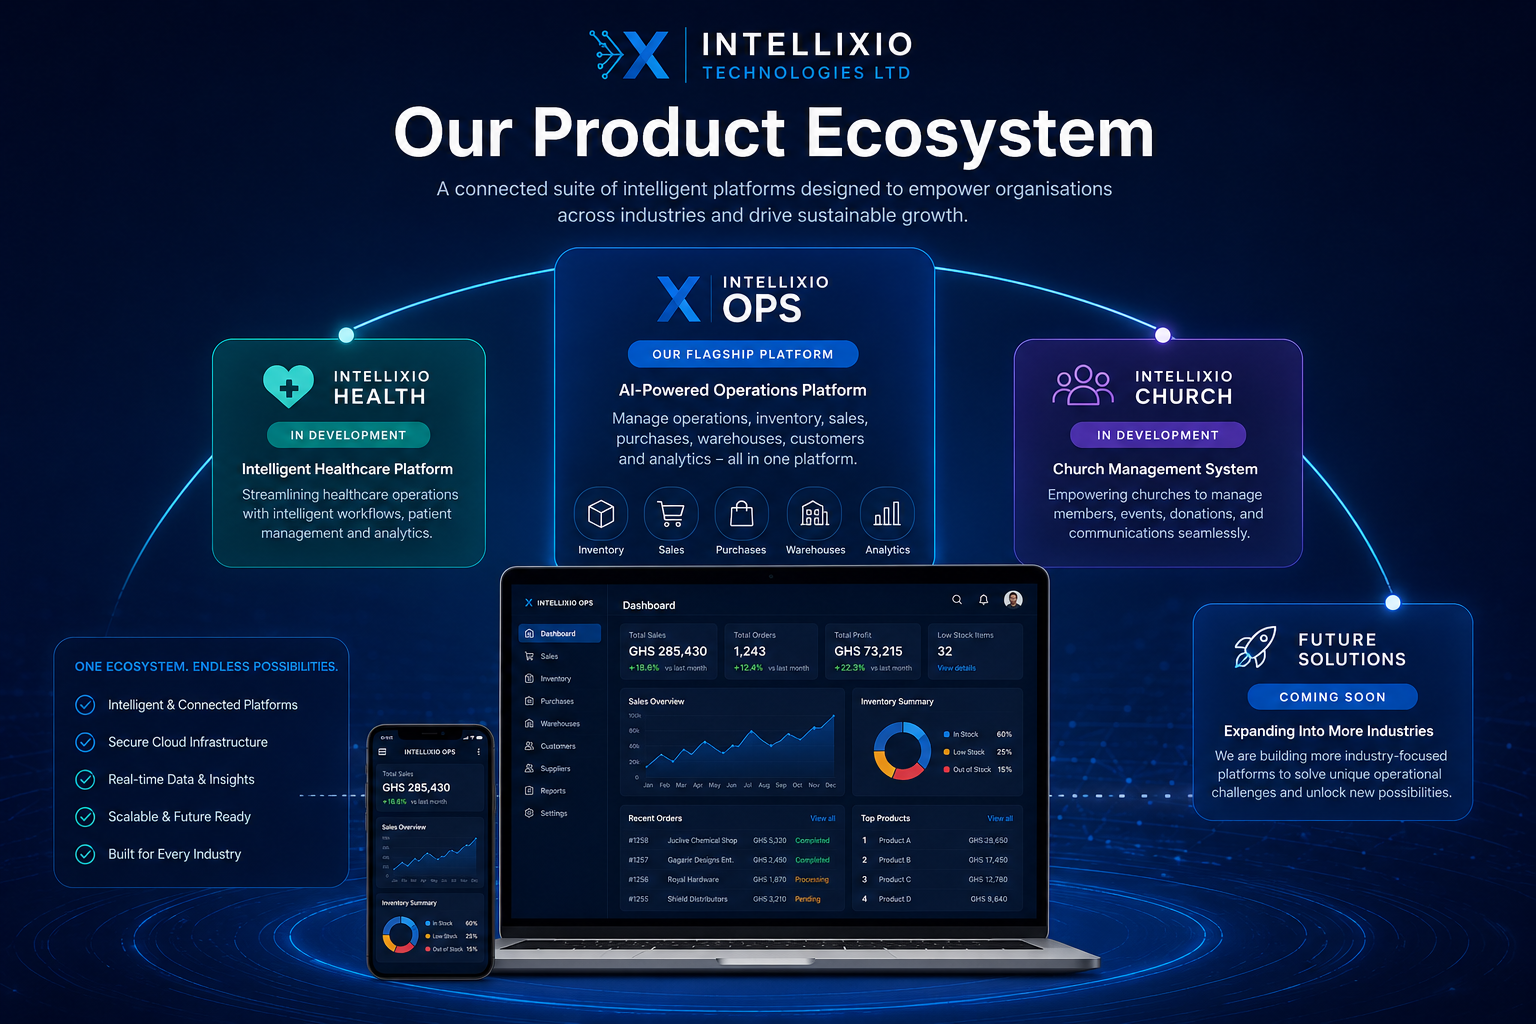
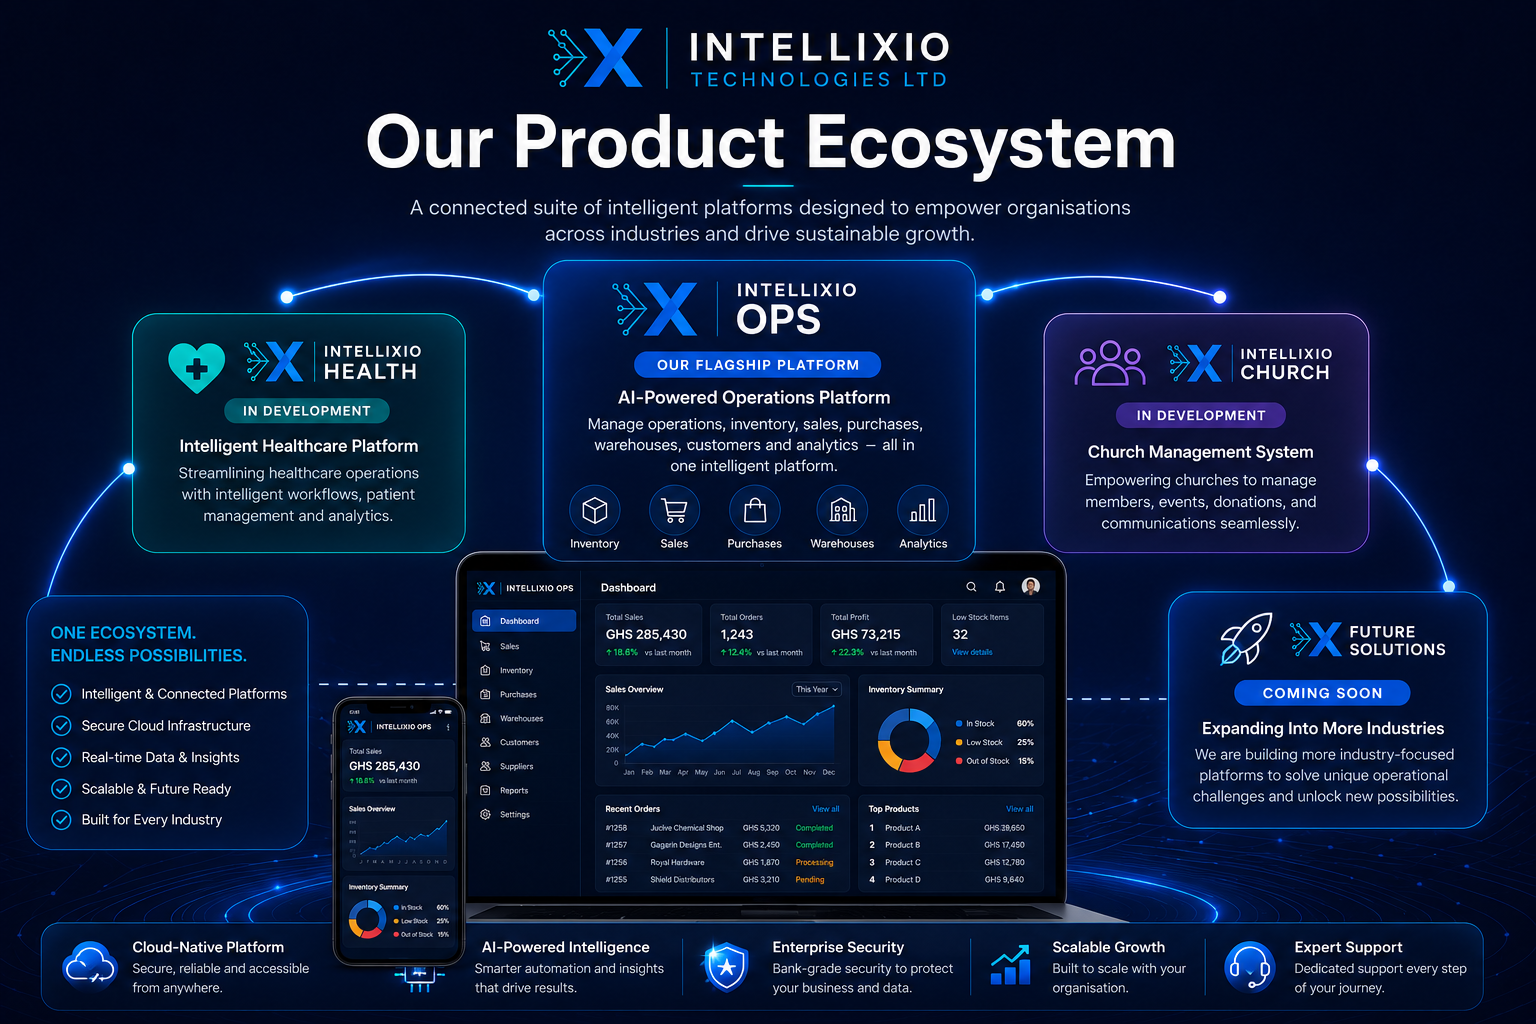
updated

diff --git a/articles/why-every-growing-business-needs-an-inventory-management-system.html b/articles/why-every-growing-business-needs-an-inventory-management-system.html
@@ -42,17 +42,6 @@
 
     <meta property="og:image:alt" content="Intellixio Technologies Ltd - AI Automation | Intelligent Business Systems">
 
-
-
-
-
-
-
-
-
-
-
-
     <!-- Twitter -->
 
     <meta name="twitter:card" content="summary_large_image">